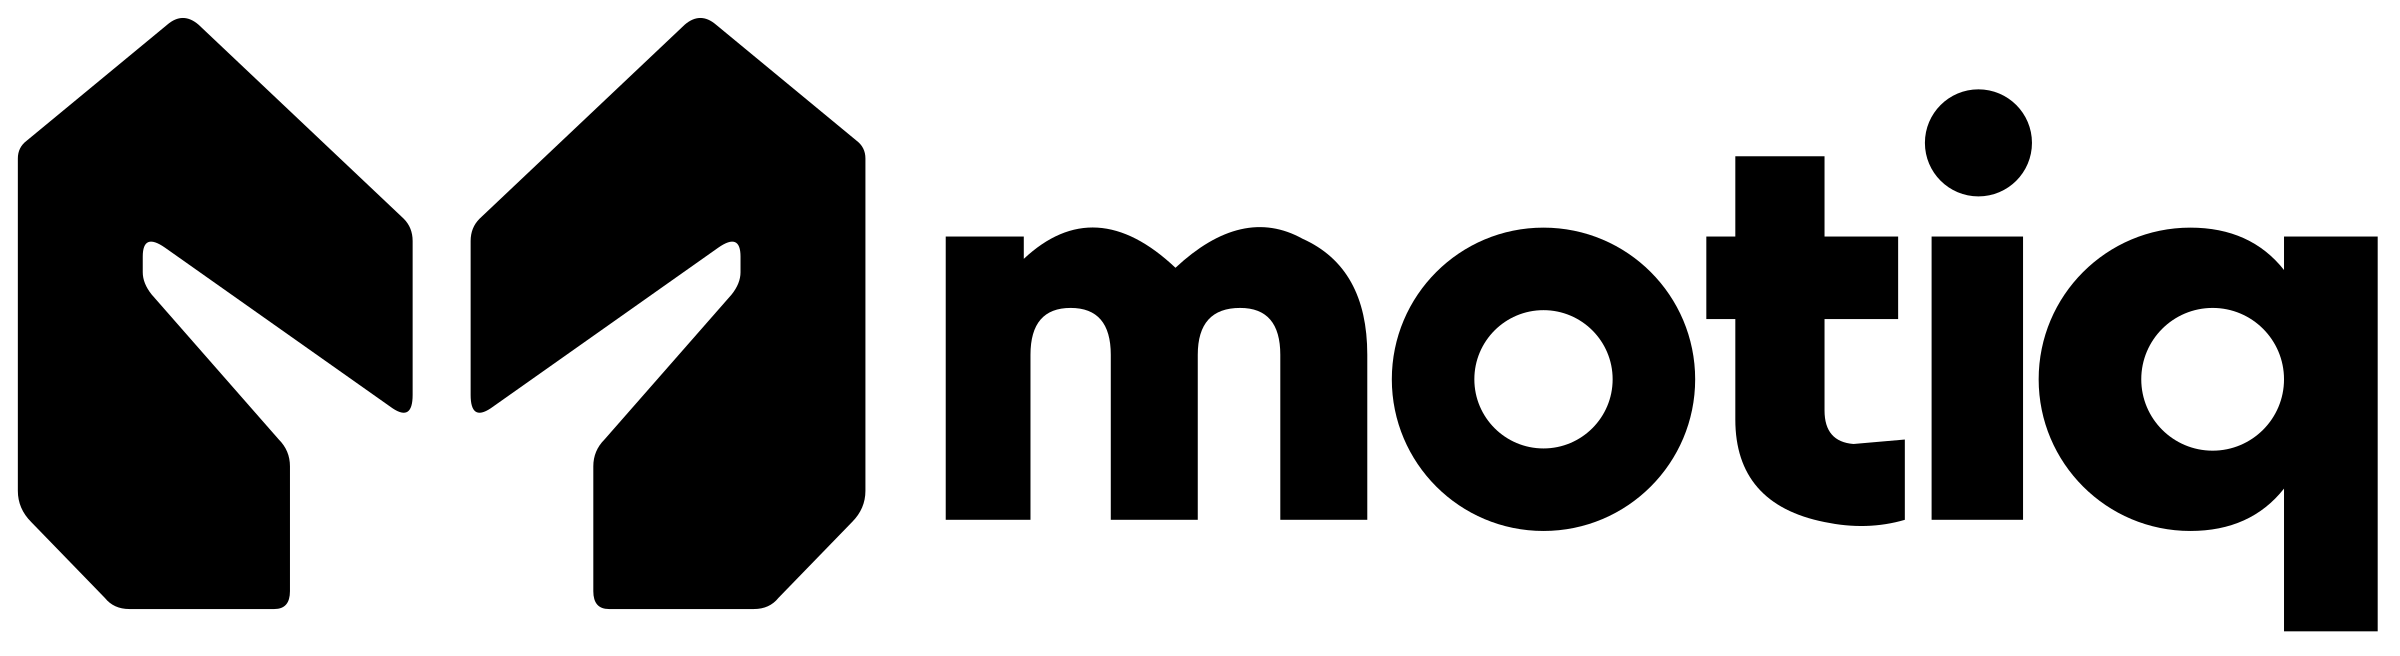
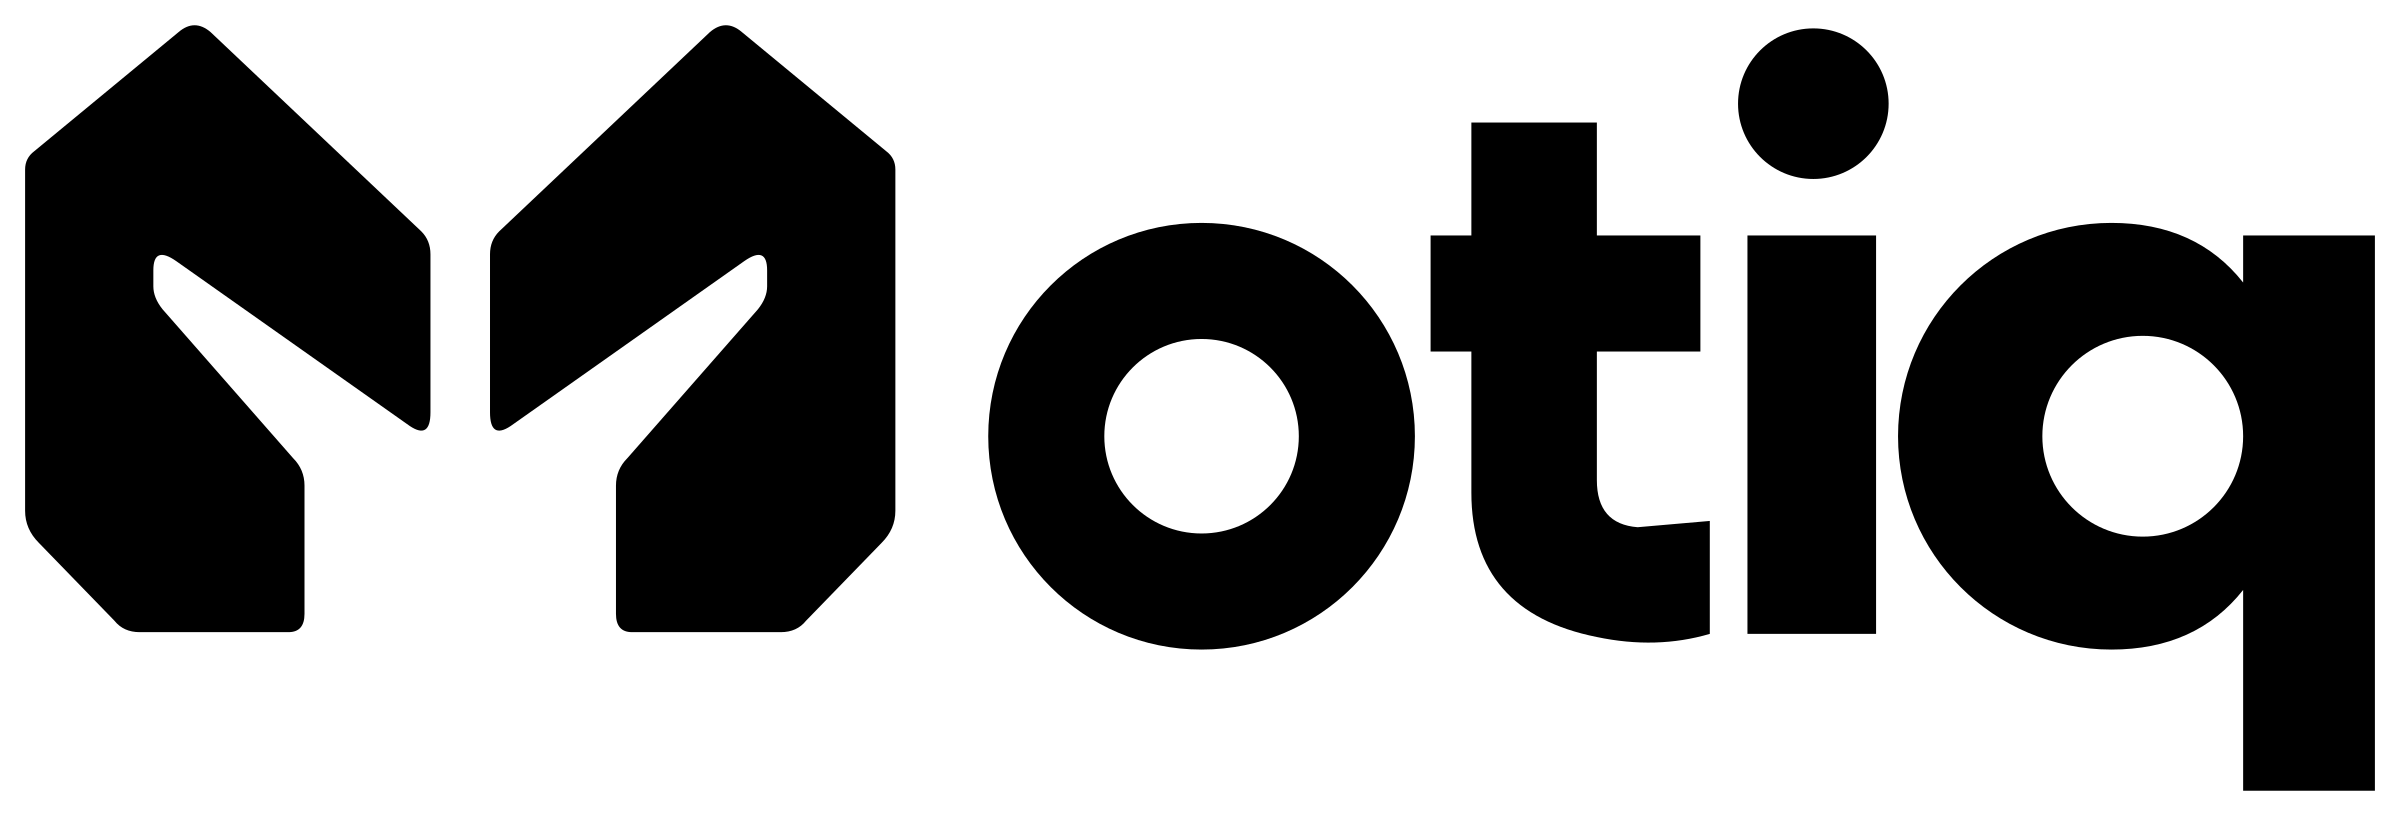
Use gripper monogram as the initial M in Motiq

Changed region(s): [[0.0, 0.0305, 1.0, 0.9756], [0.0, 0.1524, 0.0312, 0.2134], [0.0625, 0.0305, 0.0938, 0.061]]

diff --git a/hr.html b/hr.html
@@ -16,11 +16,11 @@
   <link rel="alternate" hreflang="en" href="https://www.motiq.biz/">
   <link rel="alternate" hreflang="hr" href="https://www.motiq.biz/hr.html">
   <link rel="alternate" hreflang="x-default" href="https://www.motiq.biz/">
-  <link rel="icon" type="image/x-icon" href="assets/brand/favicon.ico?v=20261004" sizes="16x16 32x32">
-  <link rel="icon" type="image/png" sizes="32x32" href="assets/brand/favicon-32.png?v=20261004">
-  <link rel="icon" type="image/svg+xml" href="assets/brand/favicon.svg?v=20261004">
-  <link rel="apple-touch-icon" sizes="180x180" href="assets/brand/apple-touch-icon.png?v=20261004">
-  <link rel="manifest" href="site.webmanifest?v=20261004">
+  <link rel="icon" type="image/x-icon" href="assets/brand/favicon.ico?v=20261004-2" sizes="16x16 32x32">
+  <link rel="icon" type="image/png" sizes="32x32" href="assets/brand/favicon-32.png?v=20261004-2">
+  <link rel="icon" type="image/svg+xml" href="assets/brand/favicon.svg?v=20261004-2">
+  <link rel="apple-touch-icon" sizes="180x180" href="assets/brand/apple-touch-icon.png?v=20261004-2">
+  <link rel="manifest" href="site.webmanifest?v=20261004-2">
   <link rel="preconnect" href="https://fonts.googleapis.com">
   <link rel="preconnect" href="https://fonts.gstatic.com" crossorigin>
   <link href="https://fonts.googleapis.com/css2?family=Inter:wght@400;500;600&family=JetBrains+Mono:wght@400;500&family=Sora:wght@400;500;600&display=swap" rel="stylesheet">
@@ -33,8 +33,8 @@
   <header class="site-header" id="top">
     <div class="wrap header-inner">
       <a class="brand" href="#top" aria-label="Motiq naslovnica">
-        <img class="logo-light" src="assets/brand/motiq-horizontal.svg?v=20261004" alt="Motiq" width="1076" height="294" fetchpriority="high">
-        <img class="logo-dark" src="assets/brand/motiq-reversed.svg?v=20261004" alt="Motiq" width="1076" height="294">
+        <img class="logo-light" src="assets/brand/motiq-horizontal.svg?v=20261004-2" alt="Motiq" width="765" height="260" fetchpriority="high">
+        <img class="logo-dark" src="assets/brand/motiq-reversed.svg?v=20261004-2" alt="Motiq" width="765" height="260">
       </a>
 
       <nav class="desktop-nav" aria-label="Glavni izbornik">
@@ -199,7 +199,7 @@
             <span class="window-secure">PRIMJER</span>
           </div>
           <div class="window-body">
-            <div class="demo-brand">MOTIQ</div>
+            <div class="demo-brand">Motiq</div>
             <div class="question-box">Što trebam provjeriti kad se pojavi alarm E17?</div>
             <div class="answer-card">
               <p>Priručnik navodi tri provjere: ulazni filtar, razinu rashladne tekućine i rashladni krug. Cijeli postupak pogledajte u izvoru.</p>
@@ -271,8 +271,8 @@
     <div class="wrap footer-top">
       <div>
         <a class="brand footer-brand" href="#top" aria-label="Motiq naslovnica">
-          <img class="logo-light" src="assets/brand/motiq-horizontal.svg?v=20261004" alt="Motiq" width="1076" height="294" loading="lazy">
-          <img class="logo-dark" src="assets/brand/motiq-reversed.svg?v=20261004" alt="Motiq" width="1076" height="294" loading="lazy">
+          <img class="logo-light" src="assets/brand/motiq-horizontal.svg?v=20261004-2" alt="Motiq" width="765" height="260" loading="lazy">
+          <img class="logo-dark" src="assets/brand/motiq-reversed.svg?v=20261004-2" alt="Motiq" width="765" height="260" loading="lazy">
         </a>
         <p>Privatni AI i automatizacija<br>Cloud i podrška</p>
       </div>

diff --git a/index.html b/index.html
@@ -15,11 +15,11 @@
   <link rel="alternate" hreflang="en" href="https://www.motiq.biz/">
   <link rel="alternate" hreflang="hr" href="https://www.motiq.biz/hr.html">
   <link rel="alternate" hreflang="x-default" href="https://www.motiq.biz/">
-  <link rel="icon" type="image/x-icon" href="assets/brand/favicon.ico?v=20261004" sizes="16x16 32x32">
-  <link rel="icon" type="image/png" sizes="32x32" href="assets/brand/favicon-32.png?v=20261004">
-  <link rel="icon" type="image/svg+xml" href="assets/brand/favicon.svg?v=20261004">
-  <link rel="apple-touch-icon" sizes="180x180" href="assets/brand/apple-touch-icon.png?v=20261004">
-  <link rel="manifest" href="site.webmanifest?v=20261004">
+  <link rel="icon" type="image/x-icon" href="assets/brand/favicon.ico?v=20261004-2" sizes="16x16 32x32">
+  <link rel="icon" type="image/png" sizes="32x32" href="assets/brand/favicon-32.png?v=20261004-2">
+  <link rel="icon" type="image/svg+xml" href="assets/brand/favicon.svg?v=20261004-2">
+  <link rel="apple-touch-icon" sizes="180x180" href="assets/brand/apple-touch-icon.png?v=20261004-2">
+  <link rel="manifest" href="site.webmanifest?v=20261004-2">
   <link rel="preconnect" href="https://fonts.googleapis.com">
   <link rel="preconnect" href="https://fonts.gstatic.com" crossorigin>
   <link href="https://fonts.googleapis.com/css2?family=Inter:wght@400;500;600&family=JetBrains+Mono:wght@400;500&family=Sora:wght@400;500;600&display=swap" rel="stylesheet">
@@ -32,8 +32,8 @@
   <header class="site-header" id="top">
     <div class="wrap header-inner">
       <a class="brand" href="#top" aria-label="Motiq home">
-        <img class="logo-light" src="assets/brand/motiq-horizontal.svg?v=20261004" alt="Motiq" width="1076" height="294" fetchpriority="high">
-        <img class="logo-dark" src="assets/brand/motiq-reversed.svg?v=20261004" alt="Motiq" width="1076" height="294">
+        <img class="logo-light" src="assets/brand/motiq-horizontal.svg?v=20261004-2" alt="Motiq" width="765" height="260" fetchpriority="high">
+        <img class="logo-dark" src="assets/brand/motiq-reversed.svg?v=20261004-2" alt="Motiq" width="765" height="260">
       </a>
 
       <nav class="desktop-nav" aria-label="Primary navigation">
@@ -183,7 +183,7 @@
             <span class="window-secure">EXAMPLE</span>
           </div>
           <div class="window-body">
-            <div class="demo-brand">MOTIQ</div>
+            <div class="demo-brand">Motiq</div>
             <div class="question-box">What should I check when alarm E17 appears?</div>
             <div class="answer-card">
               <p>The guide lists three checks: the inlet filter, coolant level and the cooling loop. Open the source for the full procedure.</p>
@@ -255,8 +255,8 @@
     <div class="wrap footer-top">
       <div>
         <a class="brand footer-brand" href="#top" aria-label="Motiq home">
-          <img class="logo-light" src="assets/brand/motiq-horizontal.svg?v=20261004" alt="Motiq" width="1076" height="294" loading="lazy">
-          <img class="logo-dark" src="assets/brand/motiq-reversed.svg?v=20261004" alt="Motiq" width="1076" height="294" loading="lazy">
+          <img class="logo-light" src="assets/brand/motiq-horizontal.svg?v=20261004-2" alt="Motiq" width="765" height="260" loading="lazy">
+          <img class="logo-dark" src="assets/brand/motiq-reversed.svg?v=20261004-2" alt="Motiq" width="765" height="260" loading="lazy">
         </a>
         <p>Private AI &amp; automation<br>Cloud &amp; support</p>
       </div>

diff --git a/motiq.final.html b/motiq.final.html
@@ -19,7 +19,7 @@ try{
 <meta property="og:title" content="Motiq — Robotics, Automation &amp; AI Infrastructure">
 <meta property="og:description" content="Four engineers building robots, automation and the systems that run them. Based in Zagreb, on-site across the EU.">
 <meta property="og:type" content="website">
-<link rel="icon" href="assets/brand/favicon.svg?v=20261004">
+<link rel="icon" href="assets/brand/favicon.svg?v=20261004-2">
 <link rel="preconnect" href="https://fonts.googleapis.com">
 <link rel="preconnect" href="https://fonts.gstatic.com" crossorigin>
 <link href="https://fonts.googleapis.com/css2?family=Sora:wght@200;300;400;500&family=JetBrains+Mono:wght@400;500&display=swap" rel="stylesheet">
@@ -570,6 +570,7 @@ html[data-theme="light"] .card:hover{box-shadow:0 16px 40px rgba(20,22,26,.10)}
   .js .reveal,.js .intro{opacity:1;transform:none;transition:none}
   .scene,.slice{transition:none}
 }
+html[data-theme="light"] .wordmark img,html[data-theme="light"] .foot-brand img{filter:invert(1)}
 </style>
 </head>
 <body>
@@ -580,7 +581,7 @@ html[data-theme="light"] .card:hover{box-shadow:0 16px 40px rgba(20,22,26,.10)}
   <span class="scroll-progress" aria-hidden="true"></span>
   <div class="wrap header-inner">
     <a class="wordmark" href="#top" aria-label="Motiq — home">
-      <img src="assets/brand/motiq-reversed.svg?v=20261004" alt="Motiq" width="154" height="42">
+      <img src="assets/brand/motiq-reversed.svg?v=20261004-2" alt="Motiq" width="154" height="52">
     </a>
     <nav class="site-nav" aria-label="Main">
       <a href="#work">Work</a>
@@ -998,7 +999,7 @@ html[data-theme="light"] .card:hover{box-shadow:0 16px 40px rgba(20,22,26,.10)}
 
 <footer class="site-foot">
   <div class="wrap foot-inner">
-    <span class="foot-brand"><img src="assets/brand/motiq-reversed.svg?v=20261004" alt="Motiq" width="154" height="42"></span>
+    <span class="foot-brand"><img src="assets/brand/motiq-reversed.svg?v=20261004-2" alt="Motiq" width="154" height="52"></span>
     <span>© <span id="year">2026</span> — Zagreb, Croatia · Working across the EU</span>
   </div>
 </footer>

diff --git a/assets/brand/README.md b/assets/brand/README.md
@@ -1,12 +1,12 @@
 # Motiq logo — M + hvataljka
 
-Odabrani koncept 02, potvrđen 4.10.2026. Znak povezuje slovo M i dvije robotske hvataljke; unutarnji rezovi podsjećaju na motiku. Tipografija je nacrtana kao geometrijski oblik, bez vanjskog fonta.
+Odabrani koncept 02, potvrđen 4.10.2026., s naknadno potvrđenom izvedbom **[znak M] + otiq**. Znak preuzima prvo veliko M u nazivu **Motiq**, povezuje ga s dvije robotske hvataljke i unutarnjim rezovima koji podsjećaju na motiku. Tipografija je nacrtana kao geometrijski oblik, bez vanjskog fonta.
 
 **Izvor geometrije:** `master.json` u ovom repozitoriju. SVG i PNG su izvedene datoteke. Promjene se rade ovdje pa ponovno izvoze s `npm ci && npm run brand:build`. GitHub Pages poslužuje ih pod `https://www.motiq.biz/assets/brand/`.
 
 | Datoteka | Namjena |
 | --- | --- |
-| `motiq-horizontal.svg` / `.png` | Glavni logo za svijetlu podlogu; PNG ima prozirnu pozadinu |
+| `motiq-horizontal.svg` / `.png` | Glavni logo: znak je prvo M u riječi Motiq; PNG ima prozirnu pozadinu |
 | `motiq-reversed.svg` / `.png` | Bijeli logo za tamnu podlogu |
 | `motiq-black.svg` / `.png` | Jednobojni crni tisak |
 | `motiq-forest.svg` / `.png` | Zelena verzija, #1E3A2E |
